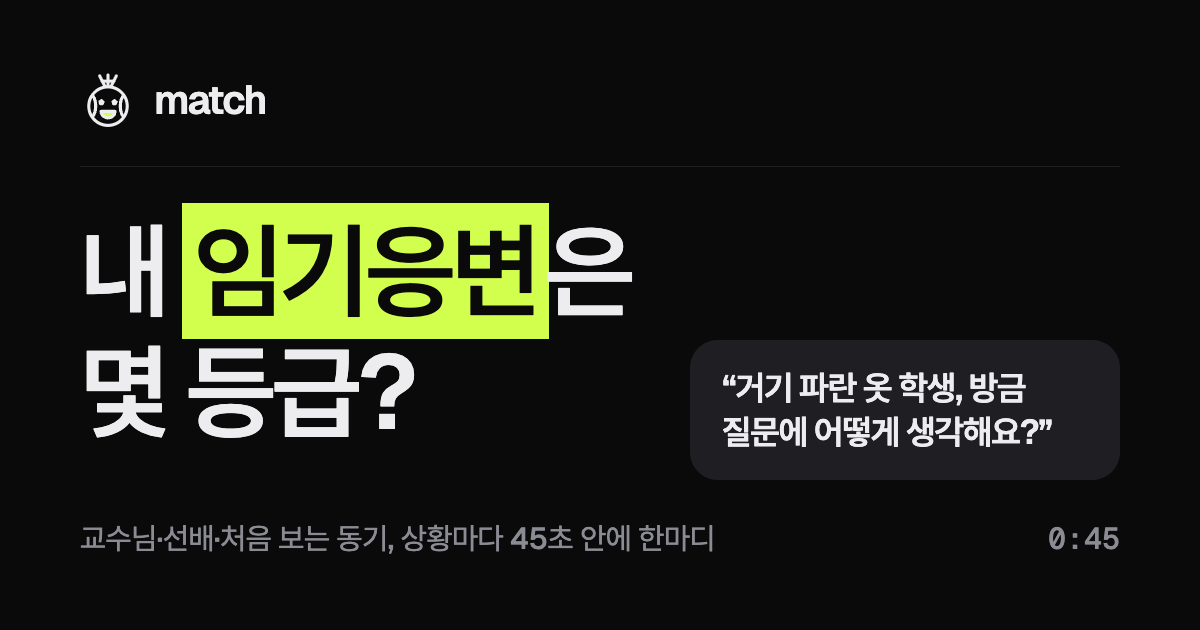
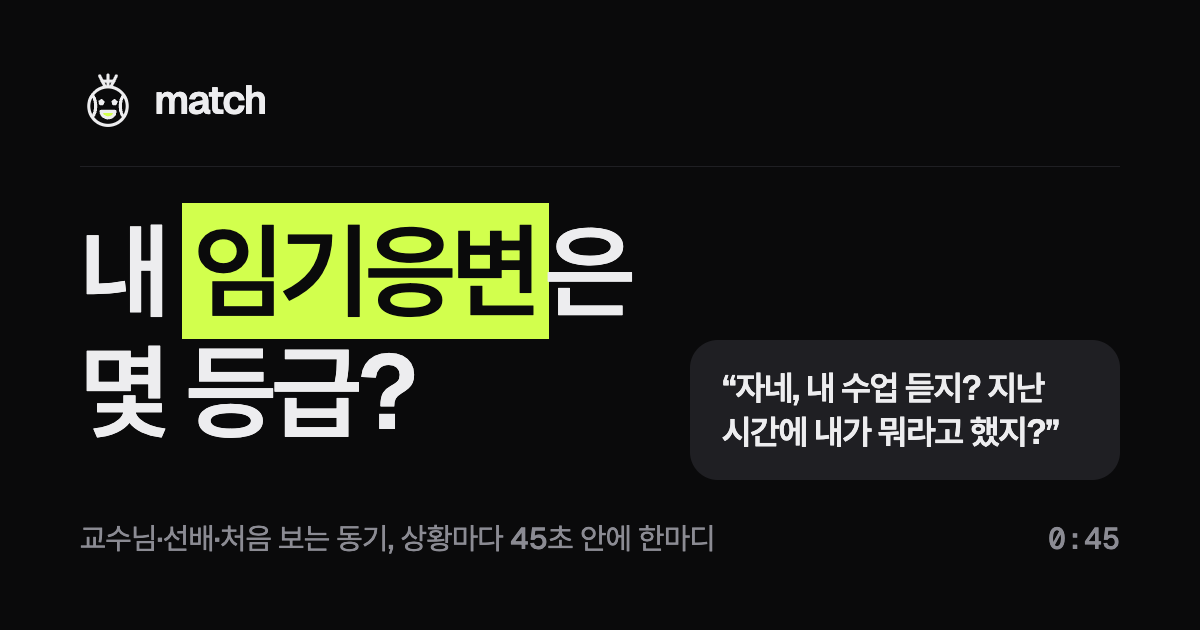
가입 첫 화면이 무엇을 하러 눌렀는지 이어서 말한다(승부 보기·학교 참전), 미리보기 그림 문구를 에타 글의 상황으로

Changed region(s): [[0.6167, 0.573, 0.8942, 0.7238], [0.5858, 0.6635, 0.6475, 0.7238]]

diff --git a/src/views/InitView.vue b/src/views/InitView.vue
@@ -10,6 +10,8 @@
         <UiCard v-if="guestLine" class="mt-8">
           <p class="t-title">{{ guestLine }}</p>
           <p class="t-caption mt-1">시작하면 {{ guestKeep }}</p>
+          <!-- 무엇을 하려고 눌렀는지 이어서 말한다: '누가 이겼는지 보기'·'우리 학교로 참전하기'를 눌렀는데 등급 이야기만 했다 (11/16) -->
+          <p v-if="guestNext" class="t-caption text-fg mt-2">{{ guestNext }}</p>
         </UiCard>
         <UiCard v-else-if="landing" class="mt-8">
           <!-- '방금 한 판'은 손님 결과에서 바로 왔을 때만. 어제 한 판의 표시(guest_played)로 새 링크를 '방금 한 판'이라 불렀다 -->
@@ -180,6 +182,15 @@ const guestLine = (() => {
 const guestKeep = improvKeepLine(Number(guestLine.match(/(\d)등급/)?.[1] ?? 0))
 
 const returnTo = peekReturnTo()
+// 손님 결과에서 어느 버튼으로 왔나: 학교 참전(가입 뒤 학교 고르기로 간다), 초대받은 판의 승부
+const guestNext = (() => {
+  if (!guestLine) return ''
+  if (returnTo?.startsWith('/settings/organizations')) return '가입하면 바로 학교를 골라 참전해요'
+  try {
+    if (JSON.parse(localStorage.getItem('improv_last_result') || 'null')?.result?.versus) return '가입하면 누가 이겼는지 바로 보여요'
+  } catch { /* 없으면 등급 한 줄만 */ }
+  return ''
+})()
 const canOpenOutside = isAndroidUa || /kakaotalk/i.test(navigator.userAgent)
 function openOutside() {
   // 다른 브라우저는 저장소가 달라 '어디로 가던 길인지'를 모른다 (11/14: /init?from=guest만 넘겨, 새 브라우저에서는 초대도 방금 판도 없는 첫 화면이었다).
